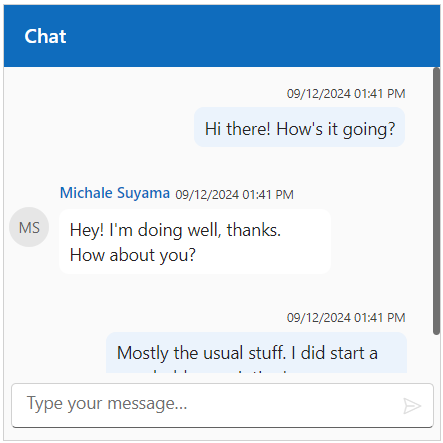
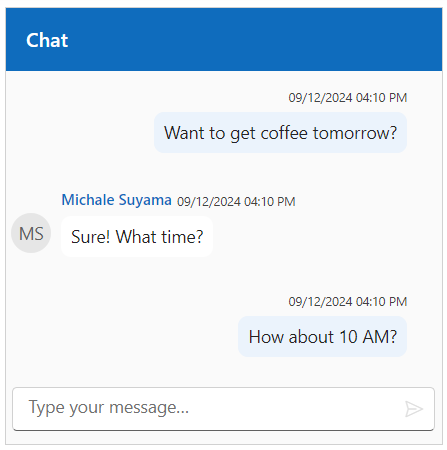
926930: Updated review concerns.

diff --git a/ej2-asp-core-toc.html b/ej2-asp-core-toc.html
@@ -527,7 +527,7 @@
 		</ul>
 		</li>
 
-		<li>ChatUI
+		<li>Chat UI
 			<ul>
 				<li><a href="/ej2-asp-core/chat-ui/getting-started">Getting Started</a></li>
 			</ul>

diff --git a/ej2-asp-mvc-toc.html b/ej2-asp-mvc-toc.html
@@ -530,7 +530,7 @@
 			</ul>
 		</li>
 
-		<li>ChatUI
+		<li>Chat UI
 			<ul>
 				<li><a href="/ej2-asp-mvc/chat-ui/getting-started">Getting Started</a></li>
 			</ul>

diff --git a/ej2-asp-core-mvc/code-snippet/chat-ui/default-messages/defaultMessages.cs b/ej2-asp-core-mvc/code-snippet/chat-ui/default-messages/defaultMessages.cs
@@ -1,0 +1,45 @@
+using Syncfusion.EJ2.InteractiveChat;
+
+public List<ChatUIMessage> ChatMessagesData { get; set; } = new List<ChatUIMessage>();
+public ActionResult Default()
+{
+    User = new UserModel
+    {
+        id = "user",
+        user = "Albert"
+    };
+    ChatMessagesData.Add(new ChatUIMessage()
+    {
+        Text = "Want to get coffee tomorrow?",
+        Author = new UserModel()
+        {
+            id = "user",
+            user = "Albert"
+        }
+    });
+    ChatMessagesData.Add(new ChatUIMessage()
+    {
+        Text = "Sure! What time?",
+        Author = new UserModel()
+        {
+            id = "user2",
+            user = "Michale Suyama"
+        }
+    });
+    ChatMessagesData.Add(new ChatUIMessage()
+    {
+        Text = "How about 10 AM?",
+        Author = new UserModel()
+        {
+            id = "user",
+            user = "Albert"
+        }
+    });
+    return View();
+}
+
+public class UserModel
+{
+    public string id { get; set; }
+    public string user { get; set; }
+}

diff --git a/ej2-asp-core-mvc/chat-ui/EJ2_ASP.NETCORE/getting-started.md b/ej2-asp-core-mvc/chat-ui/EJ2_ASP.NETCORE/getting-started.md
@@ -109,4 +109,4 @@ You can use the `e-chatui-messages` tag directive to add messages and the `user`
 {% endhighlight %}
 {% endtabs %}
 
-![ASP.NET Core AI AssistView default messages](images/default-messages.png)
+![ASP.NET Core Chat UI default messages](images/default-messages.png)

diff --git a/ej2-asp-core-mvc/chat-ui/EJ2_ASP.MVC/getting-started.md b/ej2-asp-core-mvc/chat-ui/EJ2_ASP.MVC/getting-started.md
@@ -114,4 +114,4 @@ You can use the `Messages` property to add messages and the `User` property to m
 {% endhighlight %}
 {% endtabs %}
 
-![ASP.NET MVC AI AssistView default messages](images/default-messages.png)
+![ASP.NET MVC Chat UI default messages](images/default-messages.png)
